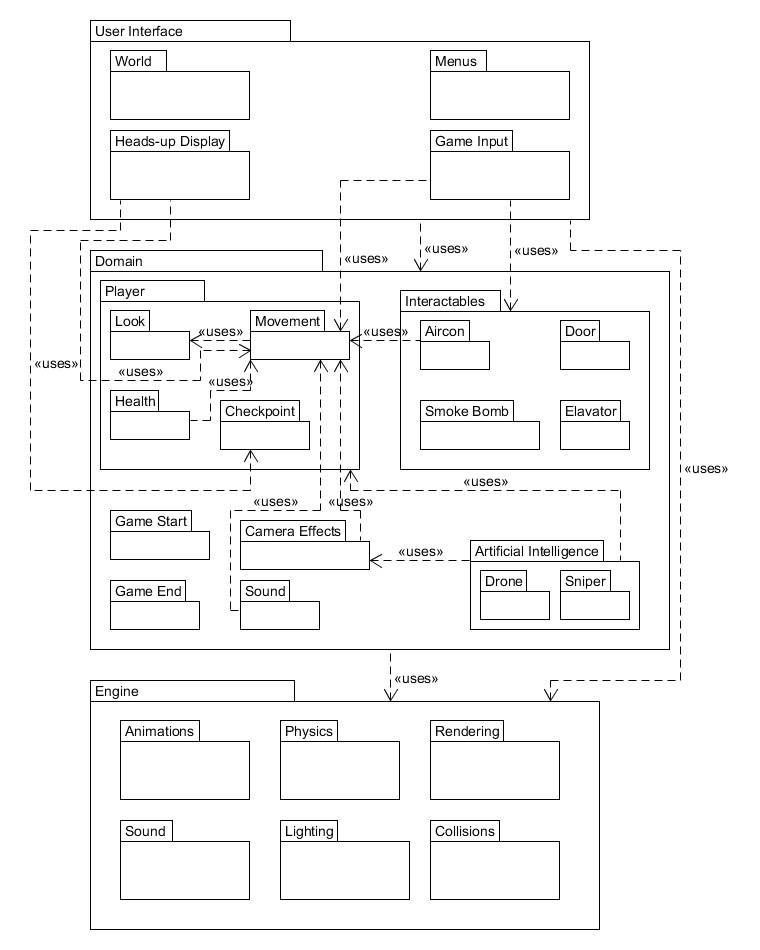
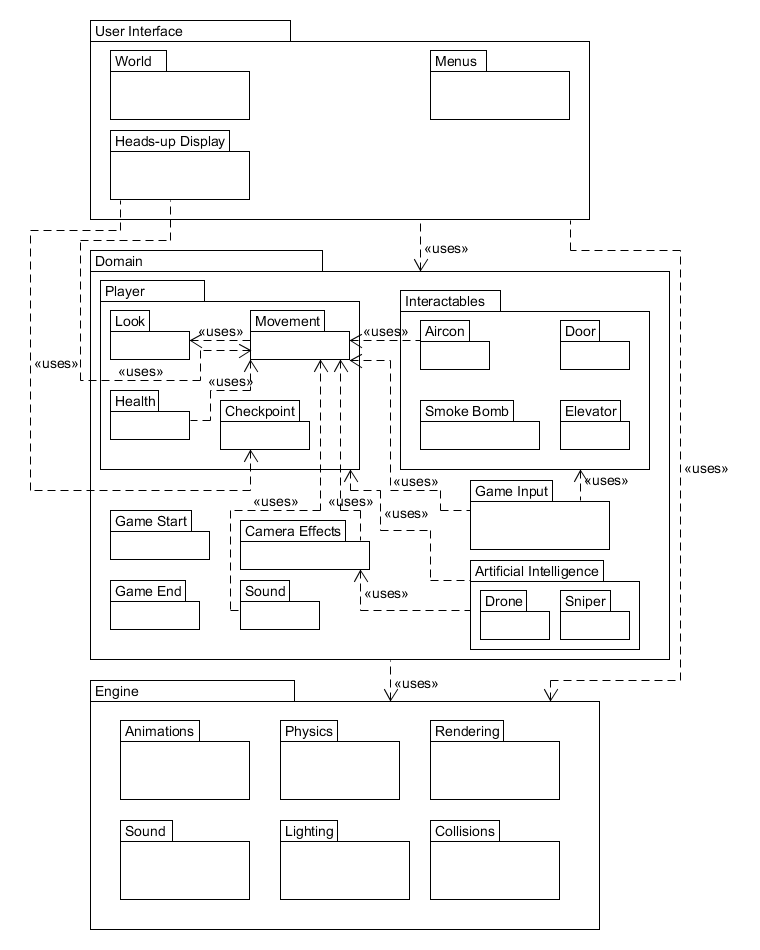
Update layered architecture diagram Remove all instructions

diff --git a/Stage-4/FinalReport.tex b/Stage-4/FinalReport.tex
@@ -65,88 +65,15 @@
 \end{abstract}
 
 \section{Introduction}
-The capstone project is done as the culmination of your three year
-study of Computer Science. It is the development of a real application
-that draws on all your knowledge of the field gained in the course of
-your training in the subject.
-
-The project should be written up as a professional software
-engineering design and development project. We expect a report of
-about 3500-4000 words, written single spaced, with a font size of at
-least 11 pts. Use at least a 2.5 cm margin on all sides of the
-pages. Please use ``styles'' for formatting if you are using a word
-processing package or use \LaTeX. We mean you to use styles for
-everything, not just headings and lists but also for a different
-font. So use emphasis for \emph{italics} and do \emph{not} use a bold
-face. No blank lines between paragraphs except to get figures and
-their captions to position properly.
-
-Depending on how many diagrams you use (more is better) the report
-will be between 7 and 10 pages long. Note that while word users will
-struggle with numbered headings and lists, \LaTeX\/ has its own ideas
-about where ``floats'' (like tables and figures) will go, as usual
-search the internet for advice (e.g., search for ``\LaTeX quick
-guide'' and look at
-http://www.andy-roberts.net/writing/latex/floats\_figures\_captions). Don't
-worry, word's specialty is loosing your figures in some between-page
-limbo; \LaTeX\/ will not loose them, just place them way after the
-spot where you want them.  This document shows the format we expect
-and you can use it as a template.  Your appendices (e.g., user manual,
-test results, which are needed) are not included in these limits.
-
-You must had-in an Adobe Acrobat file for your report (i.e., pdf
-file). Not word, latex source, but \emph{PDF}!
-
-\section{Approach}
-
-You should begin your write-up with an overview and then drill down
-into the details of what you produced. Your report should cover the
-following sections (Sections \ref{ss:introduction} --
-\ref{ss:conclusion}).
-
-\subsection*{Abstract}
-First you should have an executive summary (or abstract) just a single
-paragraph saying what the results of the project are (at most 200
-words).
-
-\subsection{Introduction}
 \label{ss:introduction}
 
-Your introduction provides the context for the project and should
-contain the statement of the scope of the project (which may have
-changed since you first wrote it). Someone reading your introduction
-must have clear idea of what the system is intended for. If you think
-there is something special about the kind of problem you tackled that
-your reader needs to know up front then this is where you say it.
+\section{Requirements Captured}
 
-If you need any survey of other work (you probably don't) then put it
-towards the end of the introduction and give suitable references. A
-case where this is needed is if your project builds on someone else's
-project or some published algorithm.
-
-Discuss your approach to solving the problem. Please give a short
-overview of the software engineering methods you used (e.g.,
-traditional analysis followed by design and implementation -- typically
-the case if you did an evolutionary prototype, or a more agile
-approach where you had a cyclical development process). 
-
-\subsection{Requirements Captured}
-
-The next section deals with the analysis of your system. Cover the
-functional, non-functional and usability requirements. This is where
-you present your use case narratives and diagrams. 
-
-Discuss the major analysis artefacts that you produced. We will expect
-you to produce at least one overall description of the architecture
-used in your system as a diagram, either here or below (see Section
-\ref{ss:design-overview}). You may also want to include an analysis
-class hierarchy diagram.
-
-\subsection{Design Overview}
+\section{Design Overview}
 \label{ss:design-overview}
-\subsubsection{Introduction}
+\subsection{Introduction}
 This section outlays the architecture of the system at a class and package level. It also examines the major software patterns that the software adhered to. The system has made use of a number of design patterns to facilitate re-usability and scalability. Specifically the classes relating to the player, since two players are present in the game. As well as the artificial intelligence where there may be several drones or snipers active in the game at a given time. The classes have also been designed to allow tweaking of their internal variables on the fly via the Unity editor. This allows one to make changes to various variables during the game to immediately see the effect the change has on the game. This significantly speeds up the rate at which the game can be balanced and the optimal parameters can be found.
-\subsubsection{Model-View-Controller}
+\subsection{Model-View-Controller}
 The game can be seen to use a model-view-controller pattern. The benefits of this pattern for the game is that the view of the world is separated from the internal representation of that information. An object's position can be updated in the model and it need not worry about how each player is viewing that object. It helps to maintain consistency as we only update the state once so results in a consistent view on the world for each player. Specifically for games, this pattern holds another advantage; the game back-end can be updated at a rate independent of the rate that the view of the world updates. For example, physics calculations may only be run at 10Hz while the view of the world updates at 60Hz. This allows for better performance management.\smallskip\\
 Within the game the models can either be other classes or GameObjects within the game world. The controllers are scripts and classes which send commands to the models to update their state. This state could be a GameObject's position or the current behaviour of a drone for example. The view is what the player sees on the screen. In this game, there are two camera's viewing the world at the same time.
 \begin{figure}[H]
@@ -154,7 +81,7 @@ Within the game the models can either be other classes or GameObjects within the
     \caption{Model-View-Controller within a game context.}
     \label{fig:mvc}
 \end{figure}
-\subsubsection{Design class diagram}
+\subsection{Design class diagram}
 The design class digram is too large to fit into an A4 page, it is therefore a separate document: \textit{DesignClassDiagram.pdf}. The class diagram is extensive and highly detailed and shows the relationships between the classes. It also captures the hierarchy between classes. The following is a description of the notation used within the class diagram:
 \begin{center}
     \begin{tabular}{|c|c|}
@@ -169,133 +96,27 @@ The design class digram is too large to fit into an A4 page, it is therefore a s
         \hline
     \end{tabular}    
 \end{center}
-\subsubsection{Layered architecture}
+\subsection{Layered architecture}
 The game is build upon the Unity engine. It forms the core or foundation layer of the system. The Unity engine provides functionality for physics calculations, controlling animations, rendering the scene, lighting calculations and collision detection to name a few. No technical services layer was included as the game does not have application-independent services such as connections to databases or extensive logging of errors to file. This layer will be added if in a later iteration a use case that requires such services is developed. The layer above that is the domain layer. It holds software objects representing domain concepts that fulfil application requirements. The majority of the classes belong to this layer since they are specific to the context of this game. At the topmost layer lies the user interface layer. It is highly specific to the application and contains services that the user will interact with. Such services include the world, menus and heads-up display.\smallskip\\
 The game makes use of a relaxed layered architecture as the both the user interface layer and domain layer call the engine layer directly. It was decided that a strict layered architecture was inadvisable. The performance impact would be far too high. In a game, the performance is a primary concern. Secondly, it would require a wrapper in the domain layer to allow commands to be passed from the user interface through to the engine layer. \smallskip\\
-In this game, the world and level design is a critical factor. It is therefore important to identify where it belongs within the architecture of the system in order to see how changes to it would effect the system as a whole. It was identified that the world should belong to the user interface layer. This is justified as the user can see and interact with the world just as they would see and interact with a web page. The world is therefore classified the same as one would classify the HyperText Markup Language (HTML) and Cascading Style Sheets (CSS) of a web page. The result is that we can make ascetic changes and changes to the layout of the level without affecting any other part of the system.
-\newline
-\newline
+In this game, the world and level design is a critical factor. It is therefore important to identify where it belongs within the architecture of the system in order to see how changes to it would effect the system as a whole. It was identified that the world should belong to the user interface layer. This is justified as the user can see and interact with the world just as they would see and interact with a web page. The world is therefore classified the same as one would classify the HyperText Markup Language (HTML) and Cascading Style Sheets (CSS) of a web page. The result is that one can make ascetic changes and changes to the layout of the level without affecting any other part of the system.
 \begin{figure}[H]
     \center{\includegraphics[scale=0.7]{images/LayeredArchitectureDiagram.png}}
     \caption{Architecture of the game}
     \label{fig:architecture}
 \end{figure}
-%REMOVE INSTRUCTIONS BELOW:
-The next section is an overview of your design. The system design has
-to be justified in terms of the expected behaviour of the final
-product. 
+\subsection{Data organisation and algorithms}
 
-If you produced a design class diagram put it here.
 
-\begin{figure}[h!]
-  \center{\includegraphics[scale=0.8]{images/architecture.png}}
-  \caption{An architecture diagram. Caption to go below figure}
-  \label{fig:architecture}
-\end{figure}
+\section{Implementation}
 
-You must present the overall architecture of the system together with
-an architecture diagram. You may choose what kind of diagram best
-suits your project but we would expect a layered architecture diagram
-(see Figure \ref{fig:architecture}) unless there is a good reason for
-some other kind of diagram. It need not be a formal UML diagram as
-long as it conveys all the necessary information clearly.
+\section{Program Validation and Verification}
 
-You should then (in subsections) cover the algorithms and the data
-organisation used and why they were considered the best. 
 
-\subsection{Implementation}
+\section{Conclusion}
 
-Now we get to the details. 
-
-\begin{itemize}
-\item Describe your data structures and be sure to illustrate them
-  with a diagram.
-
-\item If your user interface was a key feature describe how that was
-  implemented.
-
-\item Discuss the function of the most significant methods in each
-  class. This may well require flowcharts, or sequence diagrams, in
-  some cases.
-
-\item Any special relationship between the classes (e.g. friends) and
-  why they exist.
-
-\item A description of any special programming techniques or libraries
-  used.
-\end{itemize}
-
-\subsection{Program Validation and Verification}
-\label{ss:progr-valid-verif}
-
-Tell us how you tested the system and why you believe it works.
-Describe the Quality Management Plan for your project, that is,
-software testing plan. The plan should indicate the types of testing
-that was performed and detail how they were done. This must include
-the reasons on why the chosen testing protocol was considered
-effective.
-
-Create a table that summarizes the testing plan (see Table
-\ref{tab:test-plan}).
-
-\begin{table}[h!]
-  \centering
-\caption{Summary Testing Plan. A table caption goes above the table.}
-
-\begin{tabular}[t]{|p{8cm}|p{7cm}|} \hline
-
-  \textbf{Process} & \textbf{Technique} \\ \hline 1. Class
-    Testing: test methods and state behaviour of classes & Random,
-    Partition and White-Box Tests \\ \hline 2. Integration Testing:
-    test the
-    interaction of sets of classes & Random and Behavioural Testing \\
-    \hline 3. Validation Testing: test whether customer requirements
-    are satisfied & Use-case based black box and Acceptance tests \\
-    \hline 4. System Testing: test the behaviour of the system as part
-    of a larger environment & Recovery, security, stress and
-    performance tests \\ \hline
-
-\end{tabular}
-
-\label{tab:test-plan}
-\end{table}
-Describe all the steps taken to validate the correctness of the
-program.
-
-If you had user tests then say what you did and what the results
-were. Describe why these test data were chosen (what test conditions
-the data was testing).  Table \ref{tab:tests} provides an example of
-the sorts of results we are looking for. The full detail of the test
-runs should be appended to the report.
-
-\begin{table}[h!]
-  \centering
-\caption{A table of tests. A table caption goes above the table.}
-
-  \begin{tabular}[t]{|p{5.5cm}|p{3cm}|p{3cm}|p{3cm}|} \hline \textbf{Data Set
-    and reason for its choice} & \multicolumn{3}{c|}{\textbf{Test Cases}}\\
-    \cline{2-4} & \emph{Normal Functioning} & \emph{Extreme boundary cases} &
-    \emph{Invalid Data (program should not crash)} \\ \hline Preliminary test
-    (see Appendix 3) & Passed & n/a & Fell over \\\hline &&&\\ \hline
-    &&&\\ \hline
-  \end{tabular}
-
-\label{tab:tests}
-\end{table}
-
-Follow your table of results with a discussions of them highlighting
-how useful and usable your system is for its intended purpose.
-
-\subsection{Conclusion}
-\label{ss:conclusion}
-
-Your report must have a clear conclusion where you revisit the aims
-set out in the beginning and discuss how well you met them. Did you
-achieve the objective of creating a well-structured, modular, and
-robust system?  Please summarize the design features and test results
-that show this.
-
-\subsection{User Manual}
+\newpage
+\section*{User Manual}
 \label{ss:user-manual}
 \begin{description}
 	\item [Goal] Get to the top of the last building before the other player. Move quickly and efficiently while avoiding danger from enemies and falls.
@@ -320,48 +141,7 @@ that show this.
 		\item \itab{Object Interaction:}\tab{A Button}
 	\end{description}
 \end{description}
-Your system must have a user manual. Append this to your report (make
-it Appendix A) or bind it separately if it is big. If your system is
-interactive and has a good user interface with context dependent help
-then this can be just a cheat sheet. Discuss the level at which your
-user manual is to be pitched with your client. If your system is to be
-extended then you might want to include a technical API manual.
-
-\section{Conclusion}
-\label{sec:conclusion}
-
-This document has covered the major sections needed for your
-report. You will probably have each of the subsections 2.1--2.7 as
-major section in the report each with its own subsections. 
-
-A marking guide for the report will be provided later.
-
-\appendix
-\section{Code Legibility and Output}
-
-This is not strictly part of the report but is a requirement for the
-final hand-in.
-
-\begin{itemize}
-\item Each method should start wide a brief description of its
-  function.
-
-\item Use indentation to display the structure within a method.
-
-\item Comments should be used extensively. They are best used to
-  describe logical blocks of code rather than individual
-  statements. Line-by-line comments have the drawbacks of not
-  providing any overview and of decreasing readability.
-
-\item Meaningful identifiers should be chosen.
-
-\item Output should be pleasingly formatted and easy to read.
-\end{itemize}
-
-You do, of course, have the option to call in any of your
-favourite packages for setting maths, graphics, computer listings,
-etc.
-
+\newpage
 \begin{thebibliography}{9}
 
 \bibitem[Kopka and Daly(2004)]{KopkaDaly}
@@ -376,6 +156,5 @@ Lamport L. (1994) \textit{\LaTeX: A Document Preparation System}
 \bibitem[Mittelbach and Goossens(2004)]{Companion}
 Mittelbach, F. and Goossens, M., (2004) \textit{The \LaTeX\
 Companion} (2nd~edn). Addison-Wesley.
-
 \end{thebibliography}
 \end{document}
